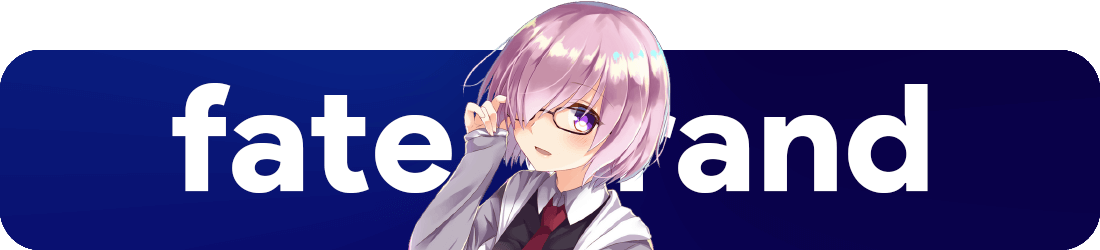
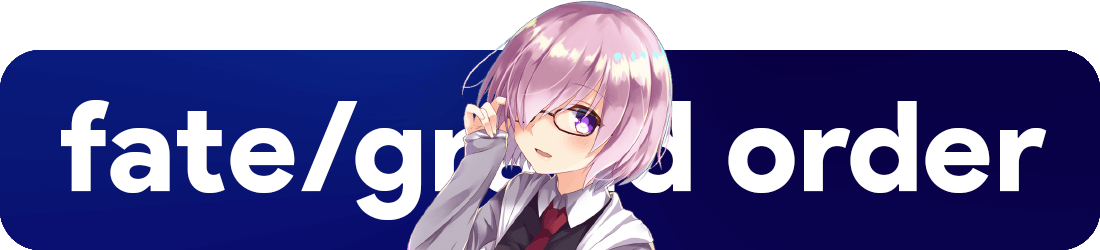
more fix

Changed region(s): [[0.0309, 0.084, 0.9582, 1.0], [0.5564, 0.028, 0.5873, 0.084]]

diff --git a/guides/fate/anime.md b/guides/fate/anime.md
@@ -27,7 +27,7 @@ Fate/Zero is the series that tooks place before [**Shirou Emiya**](https://typem
 :::
 
 ![](/banner/fg.png)
-## Fate/Grand
+## Fate/Grand Order
 
 :::tabs
 
